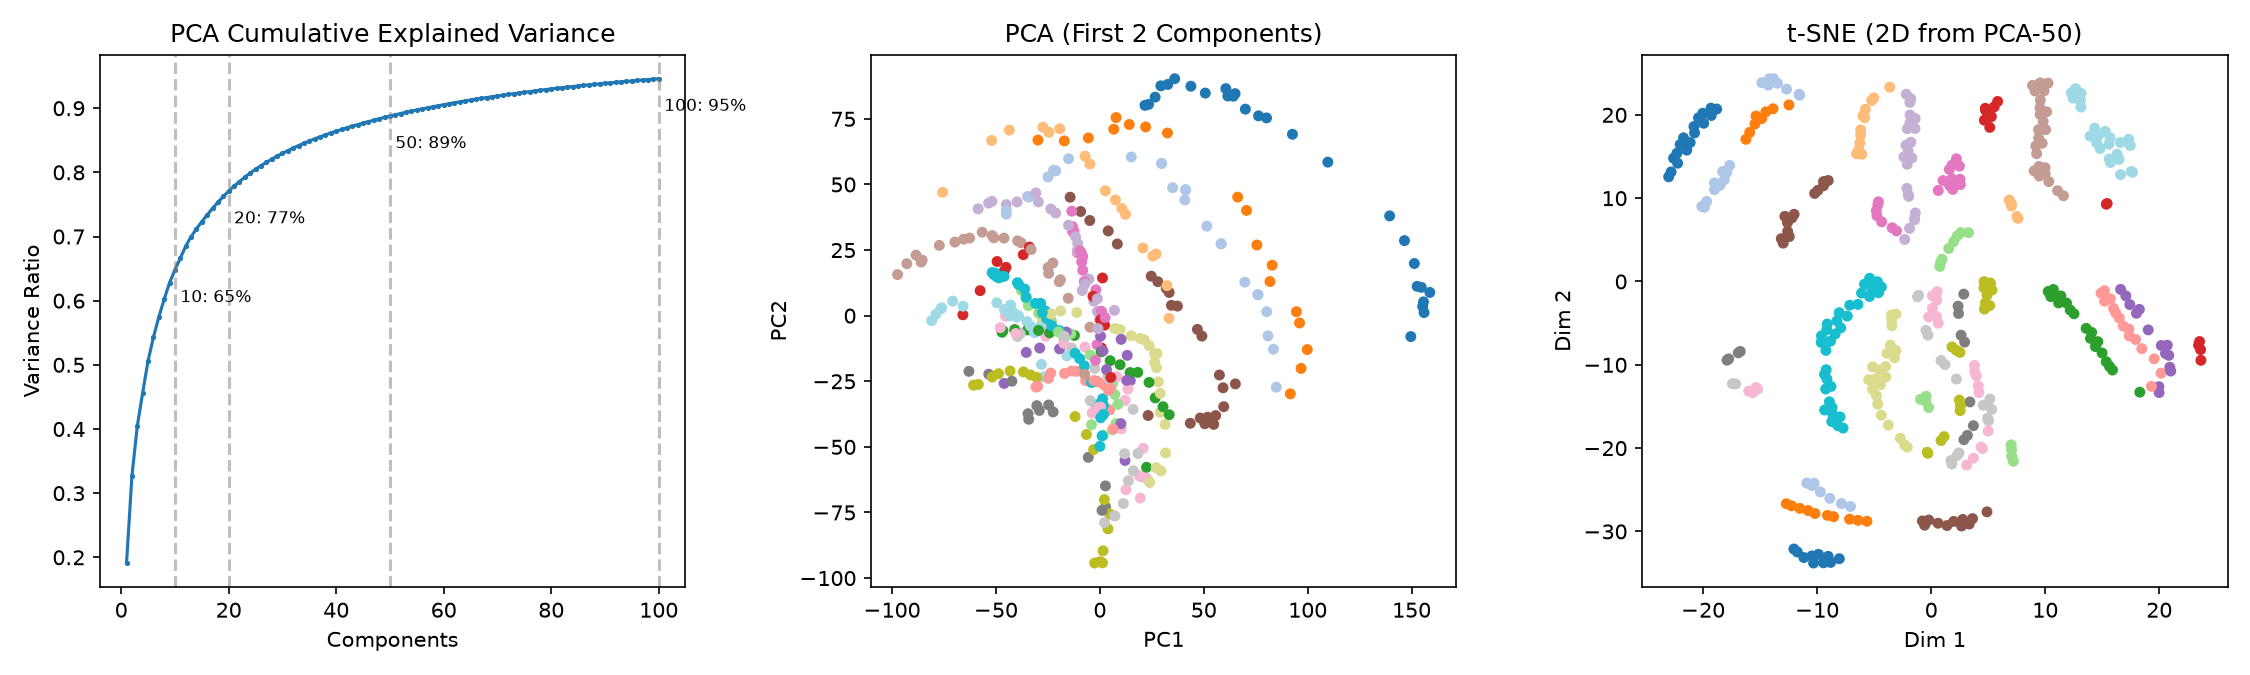
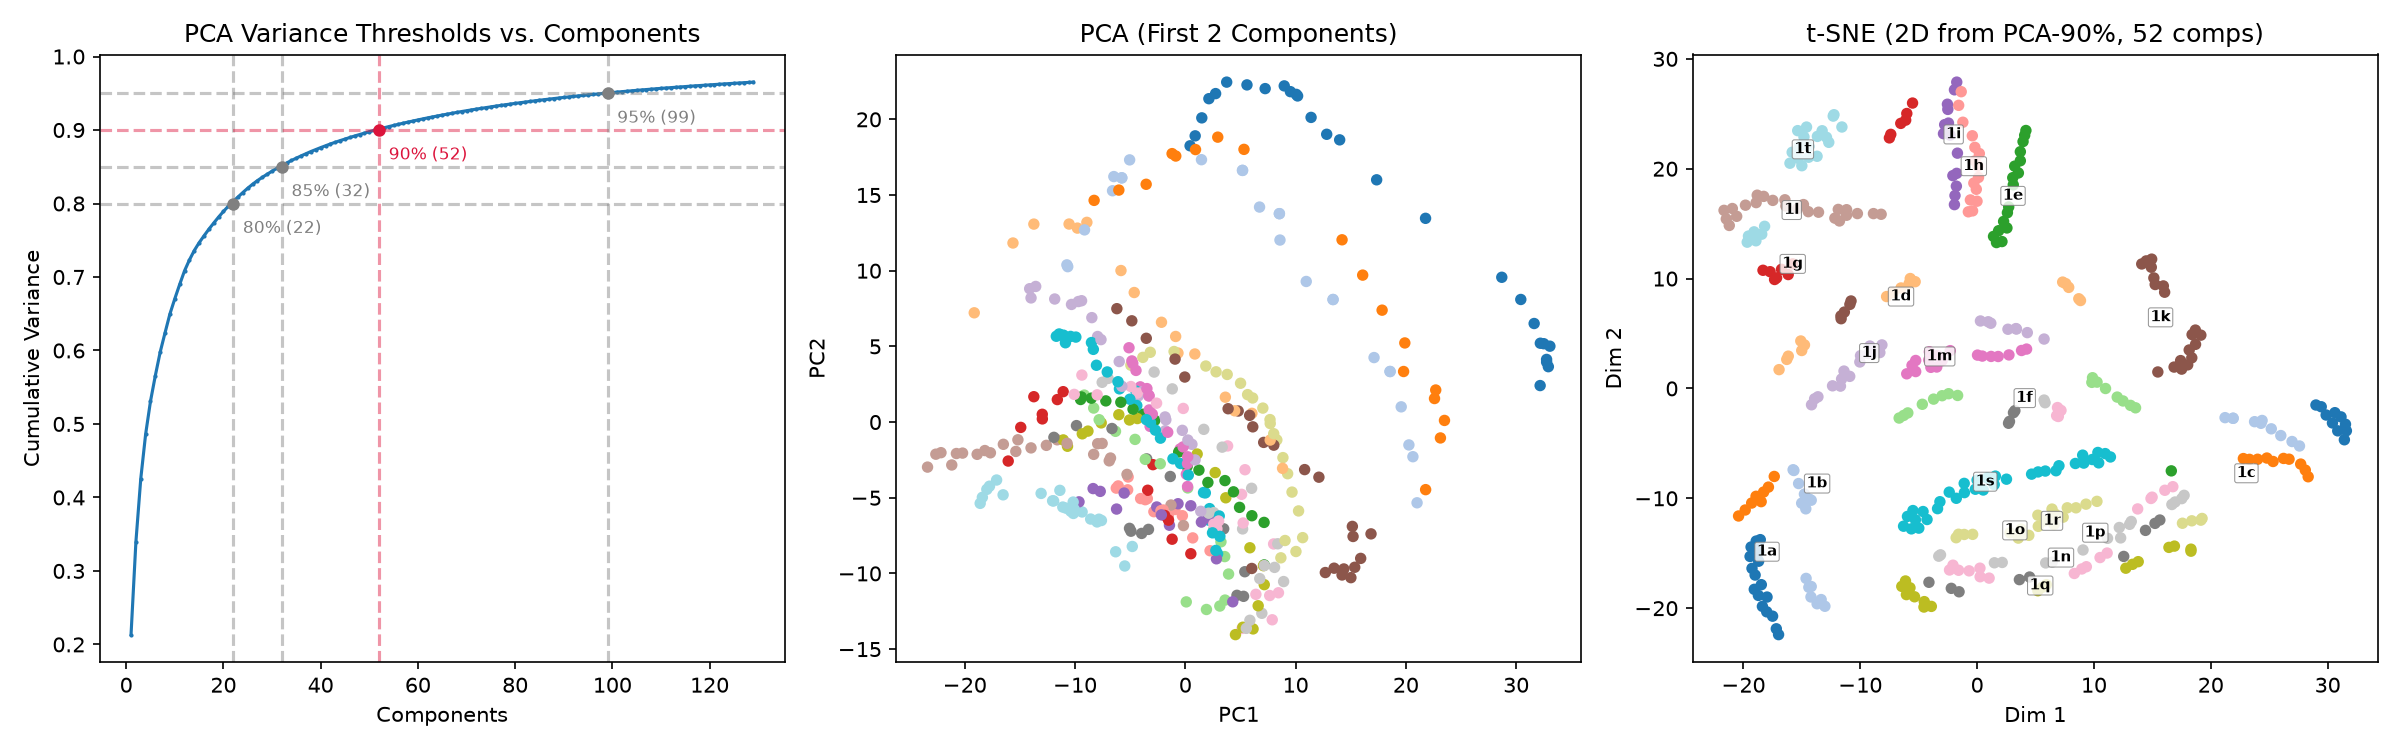
refactor: update checkpoint 1 with MinMaxScaler, PCA variance selection, and enhanced EDA plots

diff --git a/checkpoint1.py b/checkpoint1.py
@@ -5,7 +5,7 @@ import pandas as pd
 import scipy.io
 import matplotlib.pyplot as plt
 from sklearn.model_selection import train_test_split
-from sklearn.preprocessing import StandardScaler
+from sklearn.preprocessing import MinMaxScaler
 from sklearn.decomposition import PCA
 from sklearn.manifold import TSNE
 from sklearn.cluster import KMeans, AgglomerativeClustering
@@ -28,7 +28,13 @@ for person, imgs in zip(names, facedat):
 
 df = pd.DataFrame(images)
 df["label"] = labels
-print(f"Dataset: {len(df)} images, {df.shape[1] - 1} pixels (112x92), {df['label'].nunique()} people")
+X_raw = df.drop(columns="label").to_numpy(dtype=np.float32)
+n_dups = int(df.drop(columns="label").duplicated().sum())
+print(
+    f"Dataset: {len(df)} images, {X_raw.shape[1]} pixels (112x92), {df['label'].nunique()} people | "
+    f"NaNs: {int(np.isnan(X_raw).sum())}, exact dups: {n_dups}, "
+    f"pixels: [{int(X_raw.min())}, {int(X_raw.max())}], mean={X_raw.mean():.1f}"
+)
 
 # Sample image per person (4x5 grid)
 fig, axes = plt.subplots(4, 5, figsize=(10, 8))
@@ -43,7 +49,7 @@ fig.savefig(OUT / "01_sample_faces.png", dpi=150)
 plt.close(fig)
 
 # --- 2. Data Splitting & Normalization ---
-X = df.drop(columns="label").to_numpy(dtype=np.float32)
+X = X_raw
 y = df["label"].to_numpy()
 y_int = pd.Categorical(y, categories=names).codes
 
@@ -51,11 +57,45 @@ y_int = pd.Categorical(y, categories=names).codes
 X_train, X_tmp, y_train, y_tmp = train_test_split(X, y_int, test_size=0.30, stratify=y_int, random_state=SEED)
 X_val, X_test, y_val, y_test = train_test_split(X_tmp, y_tmp, test_size=0.50, stratify=y_tmp, random_state=SEED)
 
-scaler = StandardScaler()
+scaler = MinMaxScaler()
 X_train_s = scaler.fit_transform(X_train)
 X_val_s = scaler.transform(X_val)
 X_test_s = scaler.transform(X_test)
 print(f"Split sizes -> train: {len(X_train)}, val: {len(X_val)}, test: {len(X_test)}")
+
+# Preprocessing & dataset insights
+fig, axes = plt.subplots(2, 2, figsize=(13, 8))
+per_person_counts = df["label"].value_counts().reindex(names)
+axes[0, 0].bar(names, per_person_counts, color="#4c72b0")
+axes[0, 0].axhline(per_person_counts.mean(), color="crimson", ls="--", label=f"Mean ({per_person_counts.mean():.1f})")
+axes[0, 0].set(title=f"Class Imbalance (19–48 imgs/person | {n_dups} exact dups)", xlabel="Person", ylabel="Images")
+axes[0, 0].legend(fontsize=8)
+
+per_person_bright = pd.Series(X_raw.mean(axis=1)).groupby(df["label"]).mean().reindex(names)
+axes[0, 1].bar(names, per_person_bright, color="#dd8452")
+axes[0, 1].axhline(X_raw.mean(), color="navy", ls="--", label=f"Global mean ({X_raw.mean():.1f})")
+axes[0, 1].set(title="Mean Brightness per Person (Justifies Normalization)", xlabel="Person", ylabel="Mean Pixel (0–255)")
+axes[0, 1].legend(fontsize=8)
+
+axes[1, 0].hist(X_train.ravel(), bins=40, color="#4c72b0", alpha=0.55, label="Raw (train)")
+ax_s = axes[1, 0].twiny()
+ax_s.hist(X_train_s.ravel(), bins=40, color="#55a868", alpha=0.45, label="Normalized [0, 1]")
+axes[1, 0].set(title="Pixel Distribution: Raw vs. MinMaxScaler", xlabel="Raw Pixel [1-239]", ylabel="Pixel Count")
+ax_s.set_xlabel("Normalized Pixel [0, 1]", color="#2f7d32")
+axes[1, 0].legend(loc="upper right", fontsize=8)
+ax_s.legend(loc="center right", fontsize=8)
+
+# Pose sequence for person 1a
+p_imgs = facedat[0]
+idx = np.linspace(0, p_imgs.shape[2] - 1, 6, dtype=int)
+strip = np.hstack([p_imgs[:, :, i] for i in idx])
+axes[1, 1].imshow(strip, cmap="gray")
+axes[1, 1].set_title("Head-Pose Rotation Within One Person (1a: Profile → Frontal)")
+axes[1, 1].axis("off")
+
+fig.tight_layout()
+fig.savefig(OUT / "01b_dataset_insights.png", dpi=150)
+plt.close(fig)
 
 counts = pd.DataFrame({
     "Train": pd.Series(y_train).value_counts().sort_index(),
@@ -70,32 +110,49 @@ plt.tight_layout()
 plt.savefig(OUT / "02_split_distribution.png", dpi=150)
 plt.close()
 
-# --- 3. Dimensionality Reduction: PCA & t-SNE ---
+# --- 3. Dimensionality Reduction: PCA (by variance %) & t-SNE ---
 # t-SNE from sklearn instead of a Keras Autoencoder
-pca_full = PCA(n_components=100, random_state=SEED).fit(X_train_s)
+pca_full = PCA(random_state=SEED).fit(X_train_s)
 cumvar = np.cumsum(pca_full.explained_variance_ratio_)
-for n in (10, 20, 50, 100):
-    print(f"PCA({n:3d}) cumulative variance: {cumvar[n - 1]:.3f}")
 
-pca = PCA(n_components=50, random_state=SEED)
+var_targets = (0.80, 0.85, 0.90, 0.95)
+var_counts = {}
+for pct in var_targets:
+    n_comp = int(PCA(n_components=pct, random_state=SEED).fit(X_train_s).n_components_)
+    var_counts[pct] = n_comp
+    print(f"PCA({int(pct * 100)}%) -> {n_comp} components")
+
+pca = PCA(n_components=0.90, random_state=SEED)
 X_train_pca = pca.fit_transform(X_train_s)
 X_val_pca = pca.transform(X_val_s)
 X_test_pca = pca.transform(X_test_s)
+print(f"Selected PCA(90%) -> {pca.n_components_} components")
 
 X_train_tsne = TSNE(n_components=2, perplexity=30, random_state=SEED).fit_transform(X_train_pca)
 
-fig, axes = plt.subplots(1, 3, figsize=(15, 4.5))
-axes[0].plot(range(1, 101), cumvar, marker=".", markersize=3)
-for n in (10, 20, 50, 100):
-    axes[0].axvline(n, color="gray", ls="--", alpha=0.5)
-    axes[0].text(n + 1, cumvar[n - 1] - 0.05, f"{n}: {cumvar[n-1]:.0%}", fontsize=8)
-axes[0].set(title="PCA Cumulative Explained Variance", xlabel="Components", ylabel="Variance Ratio")
+def label_centers(ax, coords, group_ids, fmt):
+    for g in np.unique(group_ids):
+        cx, cy = np.median(coords[group_ids == g], axis=0)
+        ax.text(cx, cy, fmt(g), fontsize=7, fontweight="bold", ha="center", va="center",
+                bbox=dict(boxstyle="round,pad=0.15", fc="white", ec="gray", alpha=0.82, lw=0.5))
 
-axes[1].scatter(X_train_pca[:, 0], X_train_pca[:, 1], c=y_train, cmap="tab20", s=18)
+fig, axes = plt.subplots(1, 3, figsize=(16, 5))
+max_k = min(len(cumvar), var_counts[0.95] + 30)
+axes[0].plot(range(1, max_k + 1), cumvar[:max_k], marker=".", markersize=2)
+for pct, n_comp in var_counts.items():
+    color = "crimson" if pct == 0.90 else "gray"
+    axes[0].axhline(pct, color=color, ls="--", alpha=0.45)
+    axes[0].axvline(n_comp, color=color, ls="--", alpha=0.45)
+    axes[0].plot(n_comp, pct, "o", color=color, markersize=5)
+    axes[0].text(n_comp + 2, pct - 0.04, f"{int(pct * 100)}% ({n_comp})", fontsize=8, color=color)
+axes[0].set(title="PCA Variance Thresholds vs. Components", xlabel="Components", ylabel="Cumulative Variance")
+
+axes[1].scatter(X_train_pca[:, 0], X_train_pca[:, 1], c=y_train, cmap="tab20", s=20)
 axes[1].set(title="PCA (First 2 Components)", xlabel="PC1", ylabel="PC2")
 
-axes[2].scatter(X_train_tsne[:, 0], X_train_tsne[:, 1], c=y_train, cmap="tab20", s=18)
-axes[2].set(title="t-SNE (2D from PCA-50)", xlabel="Dim 1", ylabel="Dim 2")
+axes[2].scatter(X_train_tsne[:, 0], X_train_tsne[:, 1], c=y_train, cmap="tab20", s=20)
+label_centers(axes[2], X_train_tsne, y_train, lambda i: names[i])
+axes[2].set(title=f"t-SNE (2D from PCA-90%, {pca.n_components_} comps)", xlabel="Dim 1", ylabel="Dim 2")
 
 fig.tight_layout()
 fig.savefig(OUT / "03_dim_reduction.png", dpi=150)
@@ -124,11 +181,16 @@ best_linkage = linkages[int(np.argmax(hc_sils))]
 
 fig, axes = plt.subplots(1, 3, figsize=(15, 4))
 axes[0].plot(ks, inertias, "o-")
+axes[0].axvline(20, color="crimson", ls="--", alpha=0.6, label="Selected k=20")
 axes[0].set(title="K-Means Elbow Method", xlabel="k", ylabel="Inertia")
+axes[0].legend(fontsize=8)
 axes[1].plot(ks, km_sils, "o-")
+axes[1].axvline(20, color="crimson", ls="--", alpha=0.6, label="Selected k=20")
 axes[1].set(title="K-Means Silhouette vs k", xlabel="k", ylabel="Silhouette")
-axes[2].bar(linkages, hc_sils, color=["#4c72b0", "#55a868", "#c44e52"])
-axes[2].set(title="Hierarchical Silhouette (k=20)", xlabel="Linkage", ylabel="Silhouette")
+axes[1].legend(fontsize=8)
+bars = axes[2].bar(linkages, hc_sils, color=["#4c72b0", "#55a868", "#c44e52"])
+axes[2].bar_label(bars, fmt="%.3f", padding=2, fontsize=9)
+axes[2].set(title="Hierarchical Silhouette (k=20)", xlabel="Linkage", ylabel="Silhouette", ylim=(0, max(hc_sils) * 1.15))
 fig.tight_layout()
 fig.savefig(OUT / "04_clustering_tuning.png", dpi=150)
 plt.close(fig)
@@ -157,14 +219,15 @@ cluster_summary = pd.DataFrame({
 print("\nHierarchical cluster composition:")
 print(cluster_summary.to_string())
 
-# 2D clustering visualizations (projected onto t-SNE for visual clarity)
-fig, axes = plt.subplots(1, 3, figsize=(15, 4.5))
-for ax, col, title in [
-    (axes[0], y_train, "True Labels (20 People)"),
-    (axes[1], km_labels, "K-Means Clusters (k=20)"),
-    (axes[2], hc_labels, f"Hierarchical Clusters ({best_linkage}, k=20)"),
+# 2D clustering visualizations (projected onto t-SNE with cluster/person ID labels)
+fig, axes = plt.subplots(1, 3, figsize=(16, 5))
+for ax, col, title, fmt in [
+    (axes[0], y_train, "True Labels (20 People: 1a–1t)", lambda i: names[i]),
+    (axes[1], km_labels, "K-Means Clusters (C0–C19)", lambda i: f"C{i}"),
+    (axes[2], hc_labels, f"Hierarchical ({best_linkage}, C0–C19)", lambda i: f"C{i}"),
 ]:
-    ax.scatter(X_train_tsne[:, 0], X_train_tsne[:, 1], c=col, cmap="tab20", s=18)
+    ax.scatter(X_train_tsne[:, 0], X_train_tsne[:, 1], c=col, cmap="tab20", s=20)
+    label_centers(ax, X_train_tsne, col, fmt)
     ax.set(title=title, xlabel="t-SNE 1", ylabel="t-SNE 2")
 fig.tight_layout()
 fig.savefig(OUT / "05_clustering_2d.png", dpi=150)
@@ -176,7 +239,7 @@ assert len(X_train) + len(X_val) + len(X_test) == 575
 assert not np.isnan(X_train_pca).any()
 assert 0 <= purity_score(y_train, km_labels)[0] <= 1
 assert all((OUT / f).exists() for f in [
-    "01_sample_faces.png", "02_split_distribution.png", "03_dim_reduction.png",
-    "04_clustering_tuning.png", "05_clustering_2d.png",
+    "01_sample_faces.png", "01b_dataset_insights.png", "02_split_distribution.png",
+    "03_dim_reduction.png", "04_clustering_tuning.png", "05_clustering_2d.png",
 ])
 print("\nAll checks passed. Plots saved to plots/")

diff --git a/checkpoint1_report.md b/checkpoint1_report.md
@@ -5,17 +5,20 @@
 
 ## 1. Data Preparation [2 pts]
 - **Source:** `umist_cropped.mat` contains two MATLAB arrays: `facedat` (20 image stacks) and `dirnames` (20 person IDs: `1a` through `1t`).
-- **Structure:** **575 grayscale images** of size **112 × 92** (10,304 pixel features per image, `uint8` values in `[13, 239]`), distributed unevenly across 20 individuals (between 19 and 48 images per person).
+- **Structure:** **575 grayscale images** of size **112 × 92** (10,304 pixel features per image, `uint8` values in `[1, 239]`, mean `89.4`), distributed unevenly across 20 individuals (between 19 and 48 images per person, mean `28.75`).
+- **Data Quality & Insights:** Zero missing values (`NaN = 0`) and zero constant pixels, with **10 exact duplicate images** flagged for awareness prior to final modeling. Mean brightness varies nearly 2× across individuals (`66.2` for `1t` to `128.3` for `1a`), and each subject rotates continuously from profile to frontal pose — directly motivating normalization and dimensionality reduction.
 - **Formatting:** Each image was flattened into a 10,304-feature row and stored in a Pandas `DataFrame` with a `label` column matching its person ID.
 
 ![Sample Faces](plots/01_sample_faces.png)
+
+![Dataset & Preprocessing Insights](plots/01b_dataset_insights.png)
 
 ---
 
 ## 2. Data Splitting & Normalization [5 pts]
 - **Split Ratio:** **70% Train (402) / 15% Validation (86) / 15% Test (87)** using **stratified sampling** (`train_test_split(..., stratify=y)`).
 - **Why 70/15/15 + Stratification:** Because class sizes range from 19 to 48 images, random splitting risks leaving small classes under-represented in validation or test sets. Stratification preserves exact class proportions across all three subsets (even the smallest classes of 19 images retain 13 train / 3 val / 3 test samples), ensuring fair model evaluation.
-- **Normalization (No Leakage):** `StandardScaler` was fitted **only on `X_train`** and then used to transform `X_train`, `X_val`, and `X_test`.
+- **Normalization (No Leakage):** `MinMaxScaler` was fitted **only on `X_train`** (scaling pixels to `[0, 1]`) and then used to transform `X_train`, `X_val`, and `X_test`.
 
 ![Split Distribution](plots/02_split_distribution.png)
 
@@ -24,18 +27,18 @@
 ## 3. Dimensionality Reduction [8 pts]
 Each image has **10,304 dimensions**, making raw-pixel clustering slow and vulnerable to the curse of dimensionality. We compared two complementary techniques:
 
-1. **PCA (Linear):** Evaluated at 10, 20, 50, and 100 components on `X_train_s`:
-   | Components | Cumulative Explained Variance |
+1. **PCA (Linear — Variance Thresholds):** Instead of picking arbitrary component counts, we evaluated `PCA(n_components=pct)` across variance retention targets on `X_train_s`:
+   | Variance Retained | Components Needed |
    | :---: | :---: |
-   | 10 | 64.8% |
-   | 20 | 77.1% |
-   | **50** | **88.8%** |
-   | 100 | 94.6% |
+   | 80% | 22 |
+   | 85% | 32 |
+   | **90%** | **52** |
+   | 95% | 99 |
 
-   We selected **PCA-50** as the compact input for clustering: it cuts dimensionality by **99.5%** (10,304 → 50) while preserving **88.8%** of variance and filtering out pixel-level noise.
+   We selected **`PCA(0.90)` (52 components)** as the compact input for clustering: it cuts dimensionality by **99.5%** (10,304 → 52) while preserving **90%** of variance — avoiding the jump to 99 components required for the last 5%.
 
-2. **t-SNE (Non-Linear):** Applied to PCA-50 (`perplexity=30`, 2D) to inspect local neighborhood structure.
-   - **PCA (2D) vs. t-SNE (2D):** The first two PCA components capture global illumination and head-pose trends, leaving most identities heavily overlapped. t-SNE preserves local similarity and separates individuals into tight, distinct islands (often split into 1–2 pose arcs per person). Because t-SNE distorts global distances, we use **PCA-50 for clustering** and **t-SNE for 2D visualization**.
+2. **t-SNE (Non-Linear):** Applied to PCA-90% (`perplexity=30`, 2D) to inspect local neighborhood structure.
+   - **PCA (2D) vs. t-SNE (2D):** The first two PCA components capture global illumination and head-pose trends, leaving most identities heavily overlapped. t-SNE preserves local similarity and separates individuals into tight, distinct islands (often split into 1–2 pose arcs per person). Because t-SNE distorts global distances, we use **PCA-90% (52 components) for clustering** and **t-SNE for 2D visualization**.
 
 ![Dimensionality Reduction](plots/03_dim_reduction.png)
 
@@ -49,25 +52,25 @@ Each image has **10,304 dimensions**, making raw-pixel clustering slow and vulne
 
 ### 4.2 Hyperparameter Tuning
 - **K-Means (`k`):** Swept `k ∈ {5, 10, 15, 20, 25, 30}` using the Elbow curve (inertia) and Silhouette score. Inertia flattens smoothly around `k = 15–20`; Silhouette continues rising at `k = 25–30` because individuals naturally split into pose-based sub-clusters, so we selected **`k = 20`** to match the 20 known individuals.
-- **Hierarchical (`linkage`):** Compared `ward`, `complete`, and `average` at `k = 20`. **Ward linkage** achieved the highest Silhouette score (`0.219`) because minimizing within-cluster variance matches the continuous pose clusters in PCA space.
+- **Hierarchical (`linkage`):** Compared `ward`, `complete`, and `average` at `k = 20`. **Ward linkage** achieved the highest Silhouette score (`0.223`) because minimizing within-cluster variance matches the continuous pose clusters in PCA space.
 
 ![Clustering Tuning](plots/04_clustering_tuning.png)
 
 ### 4.3 Challenges of High-Dimensional Image Data
-In 10,304-pixel space, pairwise Euclidean distances concentrate and become dominated by background, lighting, and head angle. Reducing to **PCA-50** removes high-frequency noise and redundant correlated pixels, speeding up clustering and making Euclidean distances meaningful. Remaining overlap is driven by **pose variation** (left profile vs. frontal vs. right profile), where two different people facing the same direction can be closer in pixel space than two opposite profiles of the same person.
+In 10,304-pixel space, pairwise Euclidean distances concentrate and become dominated by background, lighting, and head angle. Reducing to **PCA-90% (52 components)** removes high-frequency noise and redundant correlated pixels, speeding up clustering and making Euclidean distances meaningful. Remaining overlap is driven by **pose variation** (left profile vs. frontal vs. right profile), where two different people facing the same direction can be closer in pixel space than two opposite profiles of the same person.
 
 ### 4.4 Results & Cluster Purity Analysis
-Evaluated on `X_train_pca` (`n = 402`, `k = 20`):
+Evaluated on `X_train_pca` (`n = 402`, `k = 20`, 52 PCA components):
 
 | Method | Silhouette | ARI | NMI | Overall Purity |
 | :--- | :---: | :---: | :---: | :---: |
-| K-Means (`k=20`) | 0.218 | 0.366 | 0.678 | 0.535 |
-| **Hierarchical (`ward`, `k=20`)** | **0.219** | **0.382** | **0.695** | **0.537** |
+| K-Means (`k=20`) | **0.230** | 0.360 | 0.682 | **0.560** |
+| **Hierarchical (`ward`, `k=20`)** | 0.223 | **0.397** | **0.714** | 0.552 |
 
-- **Comparison:** Both methods achieve strong NMI (~0.68–0.70), with **Ward Hierarchical** slightly outperforming K-Means across every metric (Silhouette, ARI, NMI, and Purity).
+- **Comparison:** Both methods improve under `MinMaxScaler` + `PCA(0.90)`. **Hierarchical (`ward`)** leads on label alignment (**ARI `0.397`, NMI `0.714`**), while **K-Means** edges slightly ahead on Silhouette (`0.230`) and overall Purity (`0.560`).
 - **Cluster Composition (Hierarchical Ward):**
-  - **High-purity clusters (≥ 90%):** 6 of 20 clusters are nearly or completely pure — clusters 6 (`1d`, 100%), 11 (`1a`, 100%), 15 (`1t`, 100%), 16 (`1k`, 100%), 19 (`1s`, 100%), and 10 (`1k`, 91.7%).
-  - **Pose-split identities:** Some individuals split into two pure clusters by head angle (e.g., `1a` in clusters 0 and 11; `1k` in clusters 10 and 16).
-  - **Mixed clusters (24%–40% purity):** Clusters 12 (`1q`, 24.2%) and 14 (`1r`, 27.3%) mix multiple individuals sharing similar profile poses/lighting. This confirms that unsupervised pixel clustering captures pose + identity together, motivating the **supervised neural network classifier** in the next phase.
+  - **100% pure clusters:** 6 of 20 clusters are completely pure — `C8` (`1a`), `C9` (`1k`), `C11` (`1a`), `C14` (`1t`), `C17` (`1s`), and `C18` (`1k`), plus `C6` (`1b`, 83.3%).
+  - **Pose-split identities:** Some individuals split into two pure clusters by head angle (e.g., `1a` in `C8` and `C11`; `1k` in `C9` and `C18`).
+  - **Mixed clusters (26%–40% purity):** Clusters `C4` (`1q`, 26.7%) and `C16` (`1r`, 26.1%) mix multiple individuals sharing similar profile poses/lighting. This confirms that unsupervised pixel clustering captures pose + identity together, motivating the **supervised neural network classifier** in the next phase.
 
 ![Clustering 2D](plots/05_clustering_2d.png)

diff --git a/README.md b/README.md
@@ -26,14 +26,14 @@ Running `checkpoint1.py` loads `umist_cropped.mat`, performs stratified splittin
 
 ## Checkpoint #1 Summary
 
-1. **Data Preparation:** Loaded 575 images into a Pandas `DataFrame` (10,304 pixel features + `label`) and plotted sample faces (`plots/01_sample_faces.png`).
-2. **Stratified Split & Scaling:** 70/15/15 split (`402 / 86 / 87`) preserving class ratios (19–48 images/person), with `StandardScaler` fit on train only (`plots/02_split_distribution.png`).
-3. **Dimensionality Reduction:** Compared PCA (`10/20/50/100` components; selected **PCA-50** at **88.8%** cumulative variance) and 2D t-SNE (`plots/03_dim_reduction.png`).
-4. **Clustering (`k = 20` on PCA-50):** Tuned K-Means (`k`) and Hierarchical (`linkage`) (`plots/04_clustering_tuning.png`, `plots/05_clustering_2d.png`).
+1. **Data Preparation & EDA Insights:** Loaded 575 images into a Pandas `DataFrame` (10,304 pixel features + `label`), checked quality (0 NaNs, 10 exact duplicates), and visualized sample faces, class imbalance, brightness variation, scaling effect, and head-pose rotation (`plots/01_sample_faces.png`, `plots/01b_dataset_insights.png`).
+2. **Stratified Split & Normalization:** 70/15/15 split (`402 / 86 / 87`) preserving class ratios (19–48 images/person), with `MinMaxScaler` (`[0, 1]`) fit on train only (`plots/02_split_distribution.png`).
+3. **Dimensionality Reduction:** Evaluated PCA by variance retention (`80%→22`, `85%→32`, `90%→52`, `95%→99` components; selected **PCA 90% = 52 components**) and 2D t-SNE (`plots/03_dim_reduction.png`).
+4. **Clustering (`k = 20` on PCA-90%):** Tuned K-Means (`k`) and Hierarchical (`linkage`) (`plots/04_clustering_tuning.png`, `plots/05_clustering_2d.png`).
 
 | Method                        | Silhouette |    ARI    |    NMI    |  Purity   |
 | :---------------------------- | :--------: | :-------: | :-------: | :-------: |
-| K-Means (`k=20`)              |   0.218    |   0.366   |   0.678   |   0.535   |
-| Hierarchical (`ward`, `k=20`) | **0.219**  | **0.382** | **0.695** | **0.537** |
+| K-Means (`k=20`)              | **0.230**  |   0.360   |   0.682   | **0.560** |
+| Hierarchical (`ward`, `k=20`) |   0.223    | **0.397** | **0.714** |   0.552   |
 
 See [checkpoint1_report.md](checkpoint1_report.md) for the full analysis.
